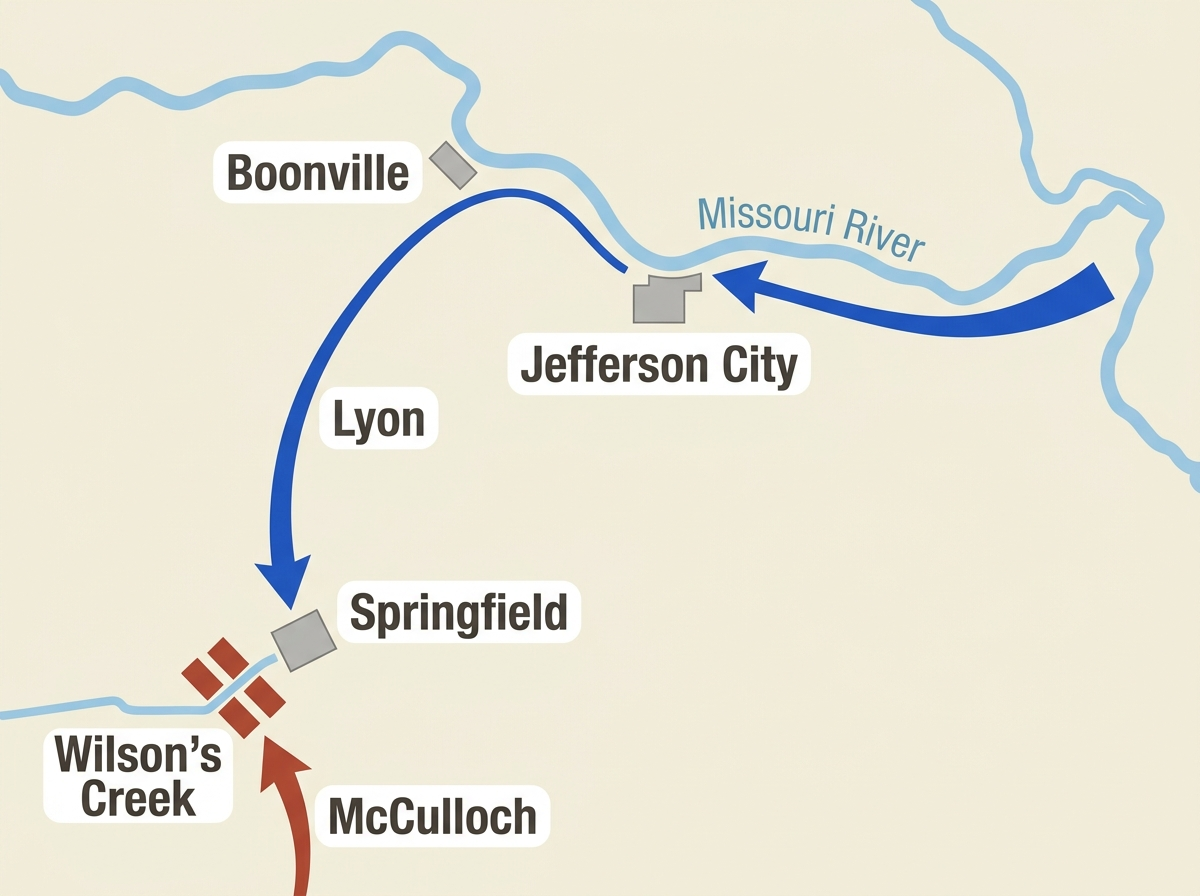
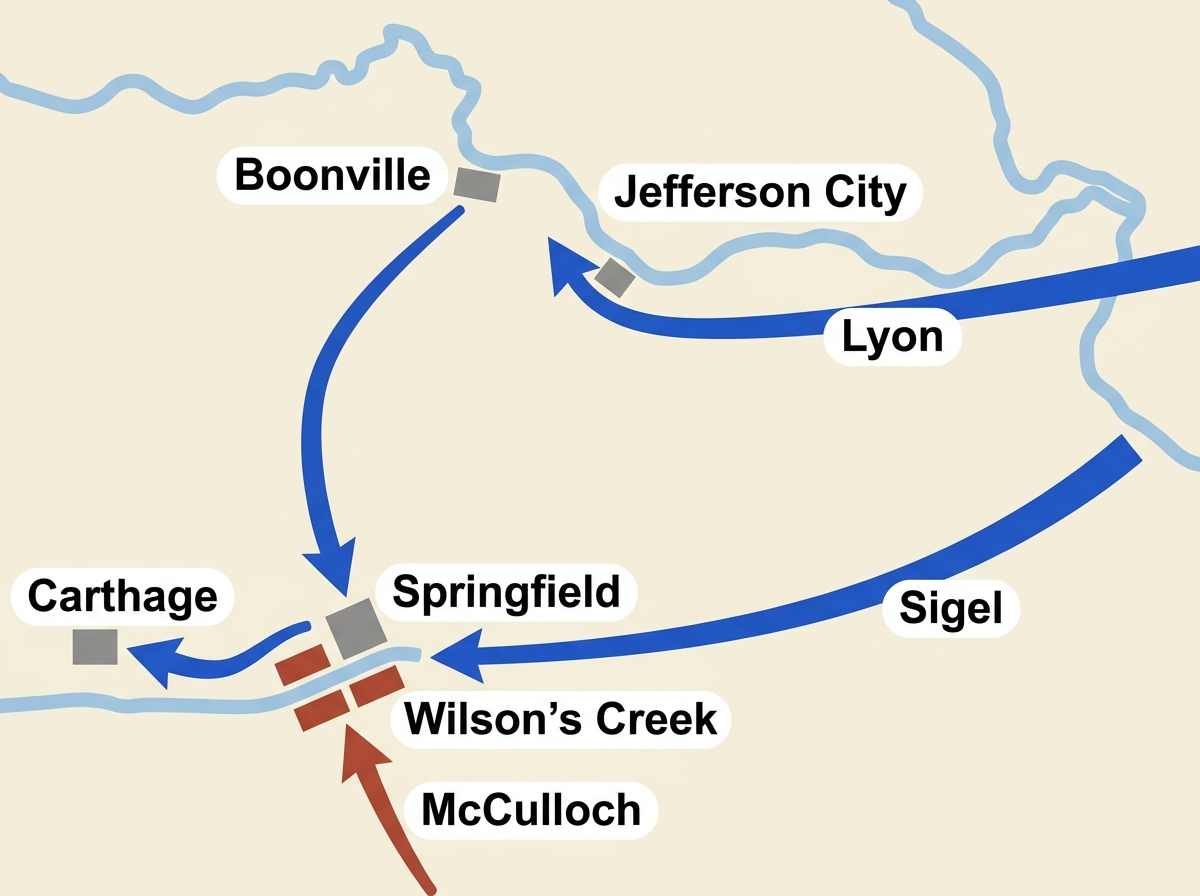
feat(war): Wilson's Creek campaign map — add Sigel's column + Carthage
The campaign/orientation map now shows Sigel's rail column sweeping down through
Carthage (the July 5 fight), alongside Lyon's chase up the Missouri and McCulloch's
march from Arkansas. Caption updated to match. Eight pill labels, no color-word slip.

Changed region(s): [[0.0, 0.0, 1.0, 1.0], [0.0, 0.0625, 0.3083, 0.125]]

diff --git a/src/app/war-civil-war/trans-mississippi/wilsons-creek/s/[section]/section-narrative.tsx b/src/app/war-civil-war/trans-mississippi/wilsons-creek/s/[section]/section-narrative.tsx
@@ -28,7 +28,7 @@ const WILSONS_CREEK_NARR: Record<string, Narr> = {
       { p: '"Rather than concede to the state of Missouri the right to dictate to my government in any matter however unimportant, I would see you, and you, and you, and you, and you, and every man, woman, and child in the state dead and buried. This means war." As remembered by a Confederate aide writing in 1886; the exact wording is disputed, but the ultimatum was real.', q: true },
       { h: 'Run them into the corner', eyebrow: 'The chase' },
       { p: 'What followed was Lyon doing the thing he did best: moving fast and hitting hard. He loaded troops onto steamboats and ran them about 145 miles up the Missouri River to seize Jefferson City, the state capital, locking it down for the Union. Then he chased and scattered Jackson\'s forces at Boonville on June 17, running a sitting governor and his armed followers, the men who claimed to be the rightful government of Missouri, clean off the capital ground of the state they claimed to govern. He also sent a column under Colonel Franz Sigel (North) by rail to the railhead at Rolla to cut off the retreating secessionists, though Sigel ran into a larger force and got bloodied in a fighting retreat at Carthage on July 5, an early taste of what his impetuousness would cost him six weeks later. Through it all, Lyon kept pushing the secessionist government into the far southwestern corner of Missouri. By mid-July he had roughly 7,000 men gathered at Springfield, in the Ozark hill country, and he had effectively chased Missouri\'s rebel government out of Missouri proper.' },
-      { fig: '/war-img/wilsons-creek-campaign.png', cap: "Lyon’s summer chase across Missouri: up the Missouri River to seize Jefferson City and scatter the secessionists at Boonville, then southwest to Springfield, while McCulloch’s Confederates marched up from Arkansas to Wilson’s Creek.", credit: 'Stuff Happened map' },
+      { fig: '/war-img/wilsons-creek-campaign.png', cap: "Lyon’s summer chase across Missouri: up the Missouri River through Jefferson City and Boonville, then southwest to Springfield; Sigel’s column came down through Carthage, while McCulloch’s Confederates marched up from Arkansas to Wilson’s Creek.", credit: 'Stuff Happened map' },
       { h: 'Attack, or admit you\'ve lost', eyebrow: 'End of the tether' },
       { p: 'Then the math caught up with him. While Lyon chased, the South gathered. Price\'s Missouri State Guard joined with about 5,000 Confederate and Arkansas troops marching up from northwestern Arkansas under Brigadier General Benjamin McCulloch (South), the first Confederate move onto Union ground west of the Mississippi. Combined, they became the Western Army, somewhere around 12,000 strong, and they planted themselves about 10 miles (16 km) southwest of Springfield along a creek called Wilson\'s Creek. Lyon now faced a force roughly twice his size. His supplies had dwindled to half and quarter rations. His short-term volunteers (men who had signed on for ninety days) were weeks from the end of their enlistments and entitled to go home. And his own superior, the general commanding the whole western region, John C. Frémont (North), refused to send him reinforcements and told him to retreat.' },
       { p: 'Retreat meant abandoning Springfield, and abandoning Springfield meant abandoning everything Lyon had spent the summer seizing, handing southwestern Missouri back to the men he\'d just chased out of it. Lyon would not do it. He decided instead to do the most aggressive thing a heavily outnumbered general can do: he would attack the bigger army first, to hurt it badly enough that he could withdraw in safety, or, if it broke, break it for good.' },

diff --git a/map-prompts/war/wilsons-creek.md b/map-prompts/war/wilsons-creek.md
@@ -16,13 +16,13 @@ Battle maps in the clean modern textbook style (Hal Jespersen / NPS look). Gener
 
 ## Map wilsons-creek-campaign
 
-The Missouri campaign, summer 1861 — a STRATEGIC statewide overview (not a battle close-up), north up. It shows how Lyon chased Missouri's secessionist government across the state into the far southwest, and how the Confederates gathered to meet him at Wilson's Creek.
+The Missouri campaign, summer 1861 — a STRATEGIC statewide overview (not a battle close-up), north up. Lyon chases Missouri's secessionist government across the state into the far southwest; a second Union column under Sigel swings down through the southwest and is bloodied at Carthage; the Confederates gather to meet them at Wilson's Creek. The map is statewide and spacious, so spread the labels out and keep every one big and bold.
 
-Draw the "Missouri River" as a flat light-blue band sweeping across the upper third of the frame, entering from the right (east) and curving up toward the left (west). Place a small gray town block on the river in the upper-center labeled "Jefferson City". Place another small gray town block on the river just up and to the left of it (northwest) labeled "Boonville". Place a gray town block in the lower-left third (the southwest) labeled "Springfield". Just below and left of Springfield, draw a short flat light-blue creek with a small cluster of solid rust-red unit blocks beside it, labeled "Wilson's Creek".
+Draw the Missouri River as a flat light-blue band (UNLABELED) sweeping across the upper third of the frame, entering from the right (east) and curving up toward the left (west). Place a small gray town block on the river in the upper-center labeled "Jefferson City". Place another small gray town block on the river just up and to the left of it (northwest) labeled "Boonville". Place a gray town block low in the center-left (the southwest) labeled "Springfield". Just below and left of Springfield, draw a short flat light-blue creek with a small cluster of solid rust-red unit blocks beside it, labeled "Wilson's Creek". Place a gray town block in the lower-LEFT corner, west of Springfield, labeled "Carthage".
 
-Draw Lyon's campaign as one bold BLUE arrow that starts at the right edge near the river, runs left (west) along the Missouri River past Jefferson City and Boonville, then curves down to the southwest to Springfield, labeled "Lyon". Draw a bold RUST-RED arrow coming up from the bottom edge (out of Arkansas to the south) to the Wilson's Creek cluster, labeled "McCulloch".
+Draw Lyon's march as one bold BLUE arrow that starts at the right edge near the river, runs left (west) along the river past Jefferson City and Boonville, then curves down to Springfield, labeled "Lyon". Draw a SECOND, separate bold BLUE arrow, lower in the frame, that comes in from the right and sweeps down and left to Carthage and on toward Springfield, labeled "Sigel". Draw a bold RUST-RED arrow coming up from the bottom edge (out of Arkansas to the south) to the Wilson's Creek cluster, labeled "McCulloch".
 
-Six labels only: Jefferson City, Boonville, Springfield, Wilson's Creek, Lyon, McCulloch. Nothing else. Keep it a clean statewide diagram with big bold sticker labels.
+Eight labels: Jefferson City, Boonville, Springfield, Wilson's Creek, Carthage, Lyon, Sigel, McCulloch. No others, and print no color words. Keep them big, bold, and well-separated so none crowd or overlap. EVERY label, including the arrow labels "Lyon", "Sigel", and "McCulloch", MUST sit inside its own solid white rounded pill exactly like the town labels — no bare text floating on the terrain, and keep all label text upright (not italic or rotated).
 
 ## Map wilsons-creek-plan
 
